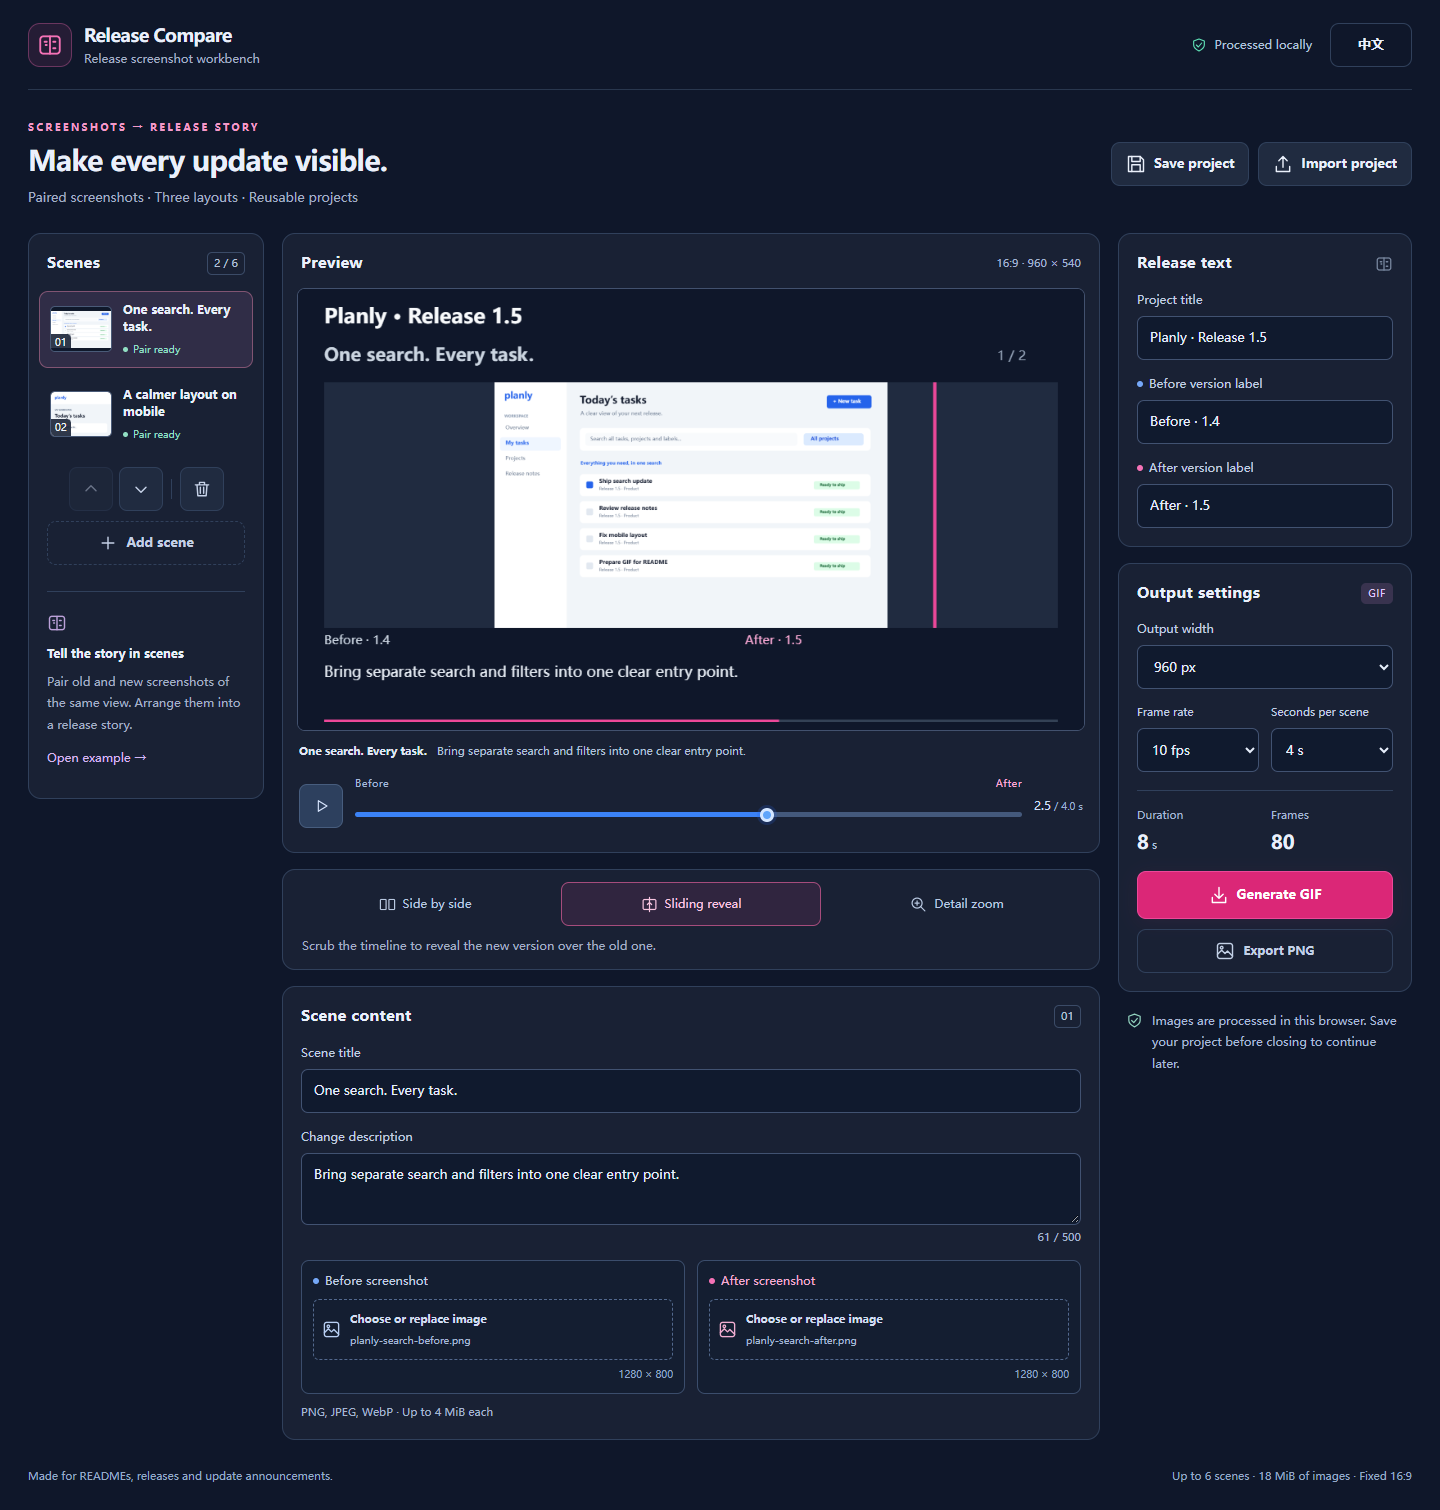
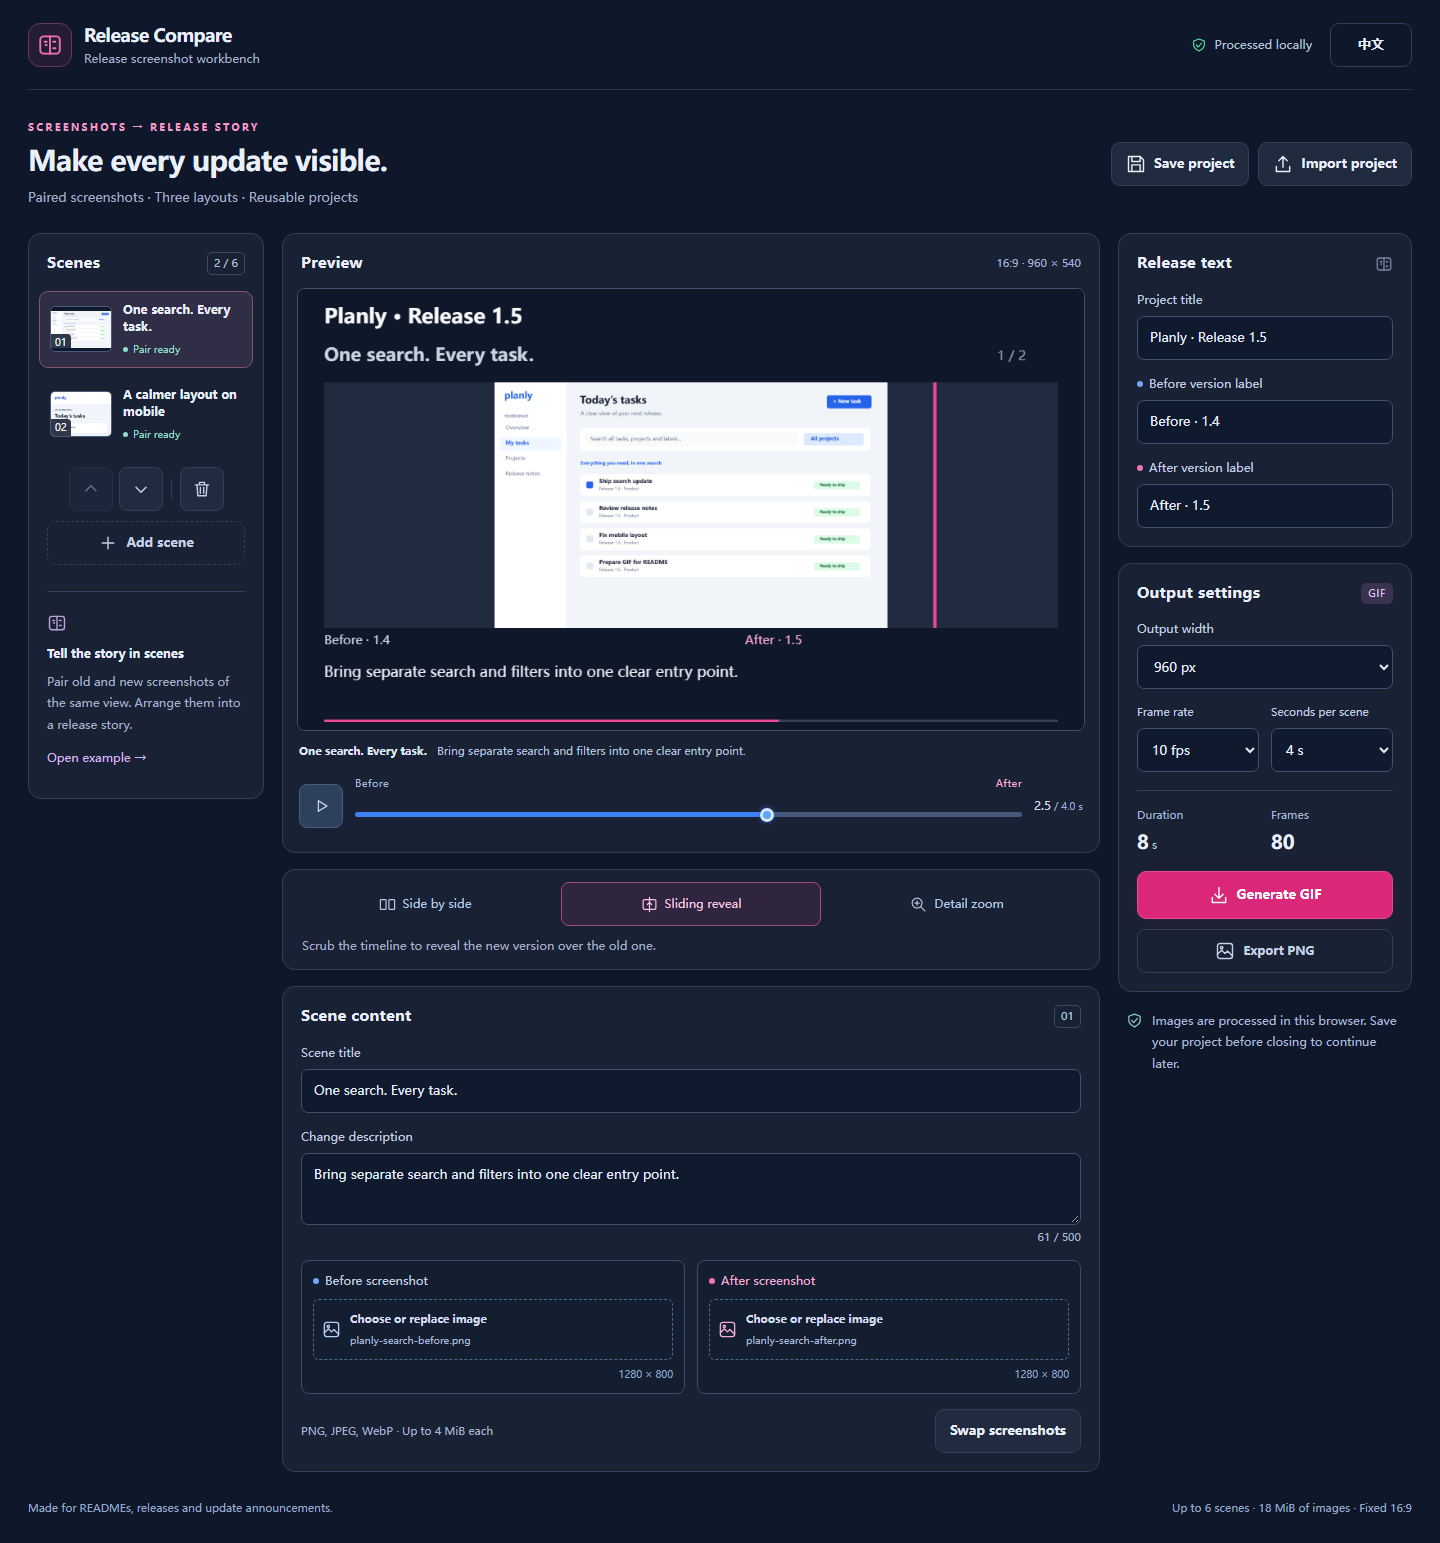
Swap screenshot pairs and keep GIF downloads after failed replacements

diff --git a/src/App.tsx b/src/App.tsx
@@ -173,6 +173,10 @@ export default function App() {
     try { downloadBlob(new Blob([serializeProject(projectRef.current)], { type: 'application/json' }), `${filename(projectRef.current.title)}.release-compare.json`); }
     catch (failure) { setError(failure); }
   }
+  function swapScreenshots() {
+    if (pendingImagesRef.current > 0) return;
+    editScene({ before: scene.after, after: scene.before });
+  }
   async function replaceImage(event: ChangeEvent<HTMLInputElement>, side: 'before' | 'after') {
     const file = event.currentTarget.files?.[0]; event.currentTarget.value = '';
     if (!file || operationRef.current !== 'idle') return;
@@ -180,7 +184,7 @@ export default function App() {
     const generation = (imageRequests.current.get(key) ?? 0) + 1;
     imageRequests.current.set(key, generation);
     pendingImagesRef.current += 1; setPendingImages(pendingImagesRef.current);
-    invalidateResult(); setError(null);
+    setError(null);
     try {
       const asset = await readImage(file);
       if (!alive.current || epoch !== projectEpoch.current || imageRequests.current.get(key) !== generation) return;
@@ -295,7 +299,10 @@ export default function App() {
             {project.template === 'zoom' && <div className="focus-grid">{focusControls.map((control) => <label key={control.key} className="focus-control"><span>{control.label}<output>{Math.round(scene.focus[control.key] * 100)}%</output></span><input type="range" aria-label={control.label} min={control.min} max={Number(control.max.toFixed(2))} step="0.01" value={scene.focus[control.key]} onChange={(event) => editScene({ focus: normalizeFocus({ ...scene.focus, [control.key]: Number(event.currentTarget.value) }) })} /></label>)}</div>}
           </fieldset>
           <section className="scene-editor panel"><div className="panel-title"><h2>{t.sceneEditor}</h2><span className="count-badge">{String(sceneIndex + 1).padStart(2, '0')}</span></div><fieldset disabled={frozen} className="form-fields"><label className="field"><span>{t.sceneTitle}</span><input aria-label={t.sceneTitle} maxLength={120} value={scene.title} onChange={(event) => editScene({ title: event.currentTarget.value })} /></label><label className="field"><span>{t.caption}</span><textarea aria-label={t.caption} maxLength={500} value={scene.caption} rows={2} onChange={(event) => editScene({ caption: event.currentTarget.value })} /><span className="field-help character-count">{scene.caption.length} / 500</span></label>
-            <div className="upload-grid">{(['before', 'after'] as const).map((side) => <div className={`upload-card ${side}`} key={side}><div className="upload-heading"><span className="version-dot" />{side === 'before' ? t.beforeUpload : t.afterUpload}</div><label className="upload-target"><Icon name={scene[side] ? 'image' : 'upload'} /><span><strong>{t.chooseImage}</strong><small>{scene[side]?.name || t.emptyImage}</small></span><input type="file" accept="image/png,image/jpeg,image/webp" className="file-input" aria-label={side === 'before' ? t.beforeUpload : t.afterUpload} onChange={(event) => replaceImage(event, side)} /></label>{scene[side] && <p className="image-dimensions">{scene[side].width} × {scene[side].height}</p>}</div>)}</div><p className="field-help upload-hint">{t.imageHint}</p>
+            <div className="upload-grid">{(['before', 'after'] as const).map((side) => <div className={`upload-card ${side}`} key={side}><div className="upload-heading"><span className="version-dot" />{side === 'before' ? t.beforeUpload : t.afterUpload}</div><label className="upload-target"><Icon name={scene[side] ? 'image' : 'upload'} /><span><strong>{t.chooseImage}</strong><small>{scene[side]?.name || t.emptyImage}</small></span><input type="file" accept="image/png,image/jpeg,image/webp" className="file-input" aria-label={side === 'before' ? t.beforeUpload : t.afterUpload} onChange={(event) => replaceImage(event, side)} /></label>{scene[side] && <p className="image-dimensions">{scene[side].width} × {scene[side].height}</p>}</div>)}</div>
+            <div className="upload-actions"><p className="field-help">{t.imageHint}</p>
+              <button type="button" className="button" disabled={pendingImages > 0 || (!scene.before && !scene.after)} onClick={swapScreenshots}>{t.swapScreenshots}</button>
+            </div>
           </fieldset></section>
         </section>
         <aside className="settings-column" aria-label={t.output}>

diff --git a/e2e/app.spec.ts b/e2e/app.spec.ts
@@ -84,6 +84,34 @@ test('replaces one screenshot and preserves its pair in saved JSON', async ({ pa
   expect(saved.scenes[0].after.dataUrl).toBe(before.scenes[0].after.dataUrl);
 });
 
+test('swaps just the selected pair and moves a single screenshot to the other side', async ({ page }) => {
+  const original = await saveProject(page);
+  const swap = page.getByRole('button', { name: '交换新旧截图', exact: true });
+  const preview = page.getByRole('img', { name: '版本对照预览' });
+  const previewData = () => preview.evaluate((canvas: HTMLCanvasElement) => canvas.toDataURL());
+  await expect(page.getByRole('button', { name: '生成 GIF', exact: true })).toBeEnabled();
+  const firstFrame = await previewData();
+  await swap.click();
+  await expect.poll(previewData).not.toBe(firstFrame);
+  const updated = await saveProject(page);
+  const [first, ...remaining] = original.scenes;
+  expect(updated).toEqual({ ...original, scenes: [{ ...first, before: first.after, after: first.before }, ...remaining] });
+  await swap.click();
+  await expect.poll(previewData).toBe(firstFrame);
+
+  await page.getByRole('button', { name: '添加场景', exact: true }).click();
+  await expect(swap).toBeDisabled();
+  const png = Buffer.from(first.before.dataUrl.split(',')[1], 'base64');
+  await page.getByLabel('旧版截图', { exact: true }).setInputFiles({ name: 'single.png', mimeType: 'image/png', buffer: png });
+  await expect(swap).toBeEnabled();
+  await swap.click();
+  const single = (await saveProject(page)).scenes.at(-1);
+  expect(single.before).toBeUndefined();
+  expect(single.after.dataUrl).toBe(first.before.dataUrl);
+  await page.getByRole('button', { name: 'English', exact: true }).click();
+  await expect(page.getByRole('button', { name: 'Swap screenshots', exact: true })).toBeEnabled();
+});
+
 // Late reads must target their original scene, and a newer choice must win on the same side.
 test('keeps delayed screenshot reads scoped to their scene and latest choice', async ({ page }) => {
   await page.addInitScript(() => {
@@ -99,6 +127,7 @@ test('keeps delayed screenshot reads scoped to their scene and latest choice', a
   await page.getByLabel('旧版截图', { exact: true }).setInputFiles({ name: 'slow.png', mimeType: 'image/png', buffer: png });
   await expect(page.getByRole('button', { name: '生成 GIF', exact: true })).toBeDisabled();
   await expect(page.getByRole('button', { name: '导入项目', exact: true })).toBeDisabled();
+  await expect(page.getByRole('button', { name: '交换新旧截图', exact: true })).toBeDisabled();
   await page.getByRole('button', { name: /^选择场景 2：/ }).click();
   await expect(page.getByRole('button', { name: '保存项目', exact: true })).toBeEnabled();
   const switched = await saveProject(page);
@@ -163,11 +192,28 @@ test('generates a real GIF and invalidates the download after editing', async ({
   await page.getByRole('button', { name: '生成 GIF', exact: true }).click();
   const link = page.getByRole('link', { name: '下载 GIF', exact: true });
   await expect(link).toBeVisible({ timeout: 60000 });
+  const originalUrl = await link.getAttribute('href');
+  await page.getByLabel('旧版截图', { exact: true }).setInputFiles({
+    name: 'broken.png', mimeType: 'image/png', buffer: Buffer.from('not a PNG'),
+  });
+  await expect(page.getByRole('alert')).toBeVisible();
+  await expect(link).toHaveAttribute('href', originalUrl!);
+
   const pending = page.waitForEvent('download');
   await link.click();
   const bytes = await downloadBytes(await pending);
   expect(bytes.subarray(0, 3).toString()).toBe('GIF');
   expect(bytes.readUInt16LE(6)).toBe(480);
+
[1 lines of base64/hex data omitted]
+  await page.getByLabel('旧版截图', { exact: true }).setInputFiles({
+    name: 'corrected.png', mimeType: 'image/png', buffer: png,
+  });
+  await expect(page.getByText('corrected.png', { exact: true })).toBeVisible();
+  await expect(link).toHaveCount(0);
+
+  await page.getByRole('button', { name: '生成 GIF', exact: true }).click();
+  await expect(link).toBeVisible({ timeout: 60000 });
   await page.getByLabel('新版本名称', { exact: true }).fill('v3.0');
   await expect(link).toHaveCount(0);
 });

diff --git a/src/i18n.ts b/src/i18n.ts
@@ -16,7 +16,7 @@ const zh = {
   focus: '放大区域', x: '水平位置', y: '垂直位置', focusWidth: '区域宽度', focusHeight: '区域高度',
   play: '播放预览', pause: '暂停预览', timeline: '时间轴', old: '旧版', next: '新版',
   sceneTitle: '场景标题', caption: '改动说明', sceneEditor: '场景内容',
-  beforeUpload: '旧版截图', afterUpload: '新版截图', chooseImage: '选择或更换图片',
+  beforeUpload: '旧版截图', afterUpload: '新版截图', swapScreenshots: '交换新旧截图', chooseImage: '选择或更换图片',
   imageHint: 'PNG、JPEG、WebP · 单张最多 4 MiB', emptyImage: '添加截图',
   project: '版本文字', projectTitle: '项目名称', beforeLabel: '旧版本名称', afterLabel: '新版本名称',
   output: '输出设置', width: '输出宽度', fps: '帧率', seconds: '每场景时长',
@@ -47,7 +47,7 @@ const en: Record<keyof typeof zh, string> = {
   focus: 'Zoom region', x: 'Horizontal position', y: 'Vertical position', focusWidth: 'Region width', focusHeight: 'Region height',
   play: 'Play preview', pause: 'Pause preview', timeline: 'Timeline', old: 'Before', next: 'After',
   sceneTitle: 'Scene title', caption: 'Change description', sceneEditor: 'Scene content',
-  beforeUpload: 'Before screenshot', afterUpload: 'After screenshot', chooseImage: 'Choose or replace image',
+  beforeUpload: 'Before screenshot', afterUpload: 'After screenshot', swapScreenshots: 'Swap screenshots', chooseImage: 'Choose or replace image',
   imageHint: 'PNG, JPEG, WebP · Up to 4 MiB each', emptyImage: 'Add screenshot',
   project: 'Release text', projectTitle: 'Project title', beforeLabel: 'Before version label', afterLabel: 'After version label',
   output: 'Output settings', width: 'Output width', fps: 'Frame rate', seconds: 'Seconds per scene',

diff --git a/src/styles.css b/src/styles.css
@@ -142,7 +142,7 @@ input[type=range]::-moz-range-thumb { width: 10px; height: 10px; border: 3px sol
 .upload-target strong { font-size: 11px; font-weight: 550; color: #d2def2; }
 .upload-target small { font-size: 10px; color: #a6b8d4; display: block; overflow: hidden; text-overflow: ellipsis; white-space: nowrap; }
 .image-dimensions { font-size: 10px; color: #94a9c9; text-align: right; margin-top: 7px; font-variant-numeric: tabular-nums; }
-.upload-hint { margin-top: -5px; }
+.upload-actions { display: flex; justify-content: space-between; align-items: center; gap: 8px; flex-wrap: wrap; }
 .form-fields:disabled .upload-target { opacity: .55; cursor: default; }
 .setting-pair { display: grid; grid-template-columns: 1fr 1fr; gap: 12px; }
 .setting-pair .field > span:first-child { font-size: 11px; }

diff --git a/README.md b/README.md
@@ -2,7 +2,7 @@
 
 ### Before-and-after release GIFs from paired screenshots
 
-**Show what changed in your next release. Add old and new screenshots, choose a comparison template, and export a GIF for your README or release notes. Save the project to reuse your scenes and settings next time.**
+**Show what changed in your next release. Arrange before-and-after screenshots in pairs, choose a comparison template, and export a GIF for your README or release notes. Save the project to reuse your scenes and settings next time.**
 
 English | [中文](README_ZH.md)
 
@@ -51,7 +51,7 @@ Preview and export use the same Canvas renderer and template logic. GIF export f
 ## Usage
 
 1. Set the project title and old/new version names.
-2. Replace each scene's before and after screenshot, or add a scene. Choose static PNG, JPEG or WebP images.
+2. Replace each scene's before and after screenshot, or add a scene. Choose static PNG, JPEG or WebP images. If an image is on the wrong side, **Swap screenshots** exchanges the two images in that scene. It also works with a single image.
 3. Name the scene and describe its change. Move scenes up or down to set the sequence.
 4. Choose a template. For Focus, adjust the X, Y, width and height sliders to choose a shared normalized region.
 5. Scrub the timeline or play the preview. Set output width, frame rate and seconds per scene.
@@ -59,7 +59,7 @@ Preview and export use the same Canvas renderer and template logic. GIF export f
 
 **Save project** downloads a versioned JSON file containing screenshots, text and settings. **Import project** restores it. **Export PNG** downloads the currently selected preview frame. Your current project stays in browser memory. Download its JSON file to continue after a page refresh.
 
-Changing content or settings clears the previous GIF download. Export uses a fixed project snapshot, with editing paused while it encodes. A failed import preserves the current project.
+Changing content or settings clears the previous GIF download. If a replacement screenshot fails to load, the existing pair and GIF download remain available. Export uses a fixed project snapshot, with editing paused while it encodes. A failed import preserves the current project.
 
 The included Planly screens are fictional fixtures drawn by this project, useful for trying the complete workflow.
 

diff --git a/README_ZH.md b/README_ZH.md
@@ -2,7 +2,7 @@
 
 ### 用对应截图生成版本更新对照 GIF
 
-**让下一次版本更新看得见。添加新旧截图，选择对照模板，导出用于 README 或更新说明的 GIF。保存项目文件，下次发布时继续使用同一组场景和设置。**
+**让下一次版本更新看得见。将新旧截图配成一组，选择对照模板，导出用于 README 或更新说明的 GIF。保存项目文件，下次发布时继续使用同一组场景和设置。**
 
 [English](README.md) | 中文
 
@@ -51,7 +51,7 @@ npm run preview
 ## 使用方法
 
 1. 设置项目名称、旧版本名称和新版本名称。
-2. 替换各场景的两张截图，或新增场景。支持静态 PNG、JPEG 和 WebP。
+2. 替换各场景的两张截图，或新增场景。支持静态 PNG、JPEG 和 WebP。选反时点击**交换新旧截图**即可调换当前场景中的两张图。只有一张时也可以把它移到另一侧。
 3. 填写场景标题与改动说明，通过上移、下移安排顺序。
 4. 选择模板。局部放大使用 X、Y、宽度、高度四个滑块确定共同区域。
 5. 拖动时间轴或播放预览，选择输出宽度、帧率和每场景时长。
@@ -59,7 +59,7 @@ npm run preview
 
 **保存项目**会下载包含截图、文字与设置的版本化 JSON 文件，**导入项目**可恢复内容。**导出 PNG**保存当前预览画面。刷新页面后，通过保存的项目文件继续工作；应用在下载前把内容保留在浏览器内存中。
 
-修改内容或设置会清除旧 GIF 的下载入口。编码使用固定项目快照，编码期间暂停编辑。导入失败时保留当前项目。
+修改内容或设置会清除旧 GIF 的下载入口。替换截图失败时，现有截图与已生成的 GIF 仍可使用。编码使用固定项目快照，编码期间暂停编辑。导入失败时保留当前项目。
 
 内置 Planly 截图由本项目绘制，是用于完整试用流程的虚构界面。
 
